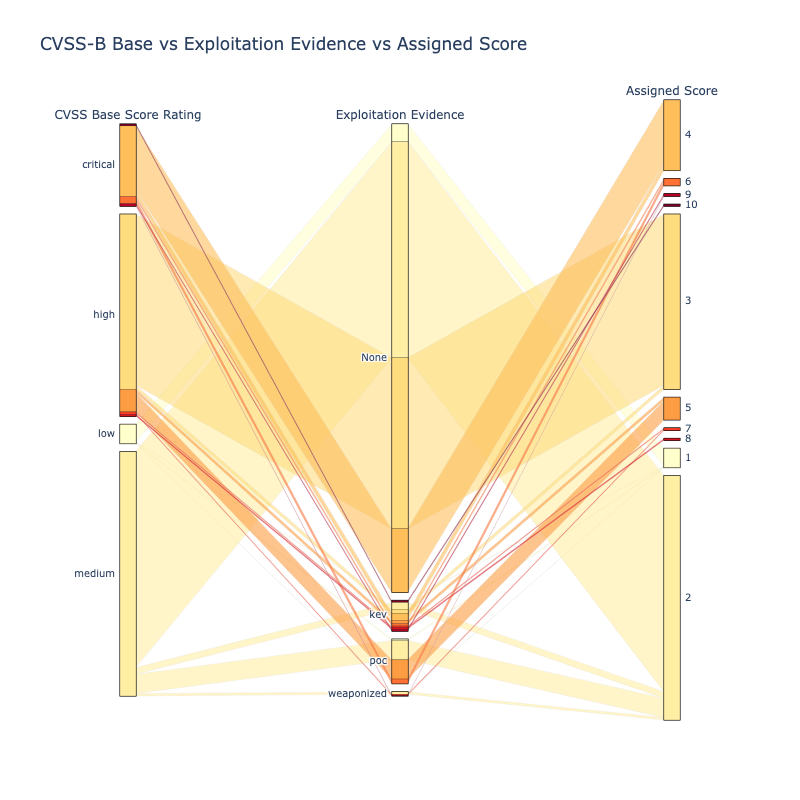
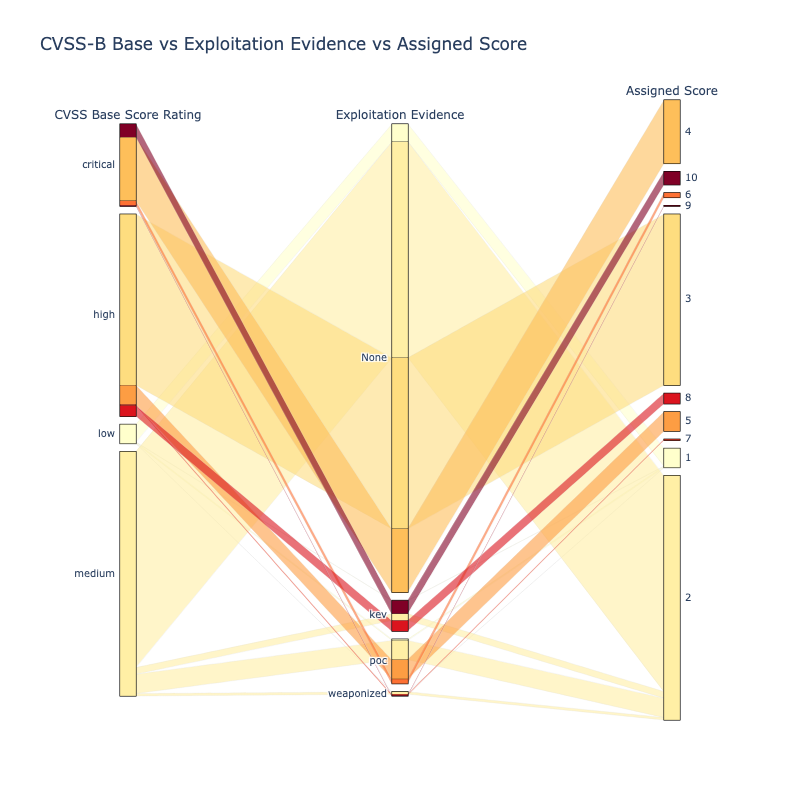
add epss to rbp cvss with exploitation

diff --git a/docs/risk/Rbp_schemes.md b/docs/risk/Rbp_schemes.md
@@ -74,16 +74,22 @@ See "[Enriching the NVD CVSS scores to include Temporal & Threat Metrics](https:
 
 ### CVSS Base Score Ratings with Exploitation Focus
 
+
+
+
 A simple illustrative scheme that combines Base Score Ratings with Exploitation status is defined here.
 
+
 * [Qualys TruRisk](../vendors/Qualys.md#in-depth-look-into-data-driven-science-behind-qualys-trurisk) is an example of this type of scheme.
+* !!! quote
+    "The focus should be given to CVEs known to be exploited in the wild (CISA KEV), those with a high likelihood of exploitation (indicated by a high EPSS score), and those with weaponized exploit code available"
 
 |  Score | CVSS Base Score Rating | Exploitation           | 
 |---|---------------------|------------------------|
-| 10  | critical            | kev                    |    
-|  9 | critical            | weaponized             |
-|  8 | high                | kev | 8     |
-|  7 | high                | weaponized  |
+| 10  | critical            | kev or EPSS High                   |    
+|  9 | critical            | weaponized or EPSS High            |
+|  8 | high                | kev or EPSS High| 8     |
+|  7 | high                | weaponized or EPSS High |
 |  6 | critical            | poc | 6     |
 |  5 | high                | poc                 |
 |  4 | critical                | -                  | 
@@ -98,6 +104,8 @@ where a CVE is assigned to a group if it appears in the Data Source listed:
 | weaponized                          | metasploit or nuclei      |
 | kev (Known Exploited Vulnerability) | cisa_kev or vulncheck_kev |
 | poc (Proof Of Concept)              | poc_github or exploitdb   |
+| EPSS High             | EPSS Score >= 10%   |
+
 
 <figure markdown>
 ![](../assets/images/cvss_exploitation_parcat.png) 

diff --git a/docs/vendors/Qualys.md b/docs/vendors/Qualys.md
@@ -143,7 +143,7 @@ and the reason for the unscored CVEs by Qualys. 
 
 !!! success "Takeaways"
     1. "The focus should be given to CVEs known to be exploited in the wild (CISA KEV), those with a high likelihood of exploitation (indicated by a high EPSS score), and those with weaponized exploit code available"
-    2. The Qualys scoring / priority for "Likelihood of Exploit" factors is in this order
+    2. The Qualys scoring / priority for "Likelihood of Exploitation" factors is in this order
           1. known to be exploited in the wild 
           2. weaponized exploits 
           3. PoC exploits.

diff --git a/docs/organizations/acme/Applied.md b/docs/organizations/acme/Applied.md
@@ -34,7 +34,7 @@ A CVEs "scored 4.0 or higher by the CVSS" is pretty much all CVEs
 
 
 
-The organization uses CVSS score and "Likelihood of Exploit" to
+The organization uses CVSS score and "Likelihood of Exploitation" to
 prioritize CVEs for the CVSS threshold required by regulation.
 Specifically it uses:
 
